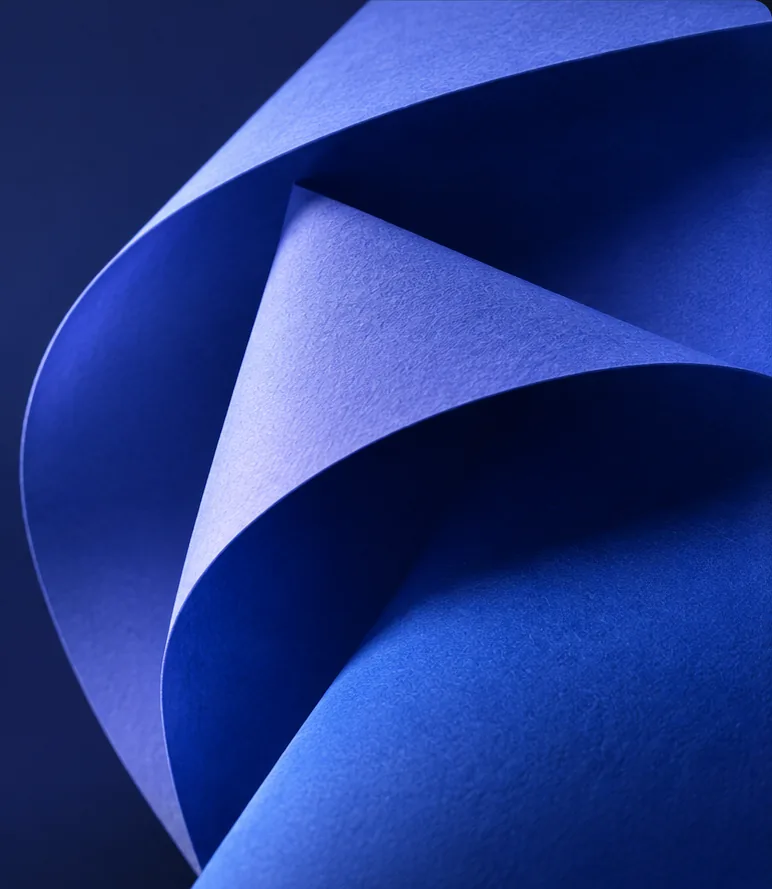
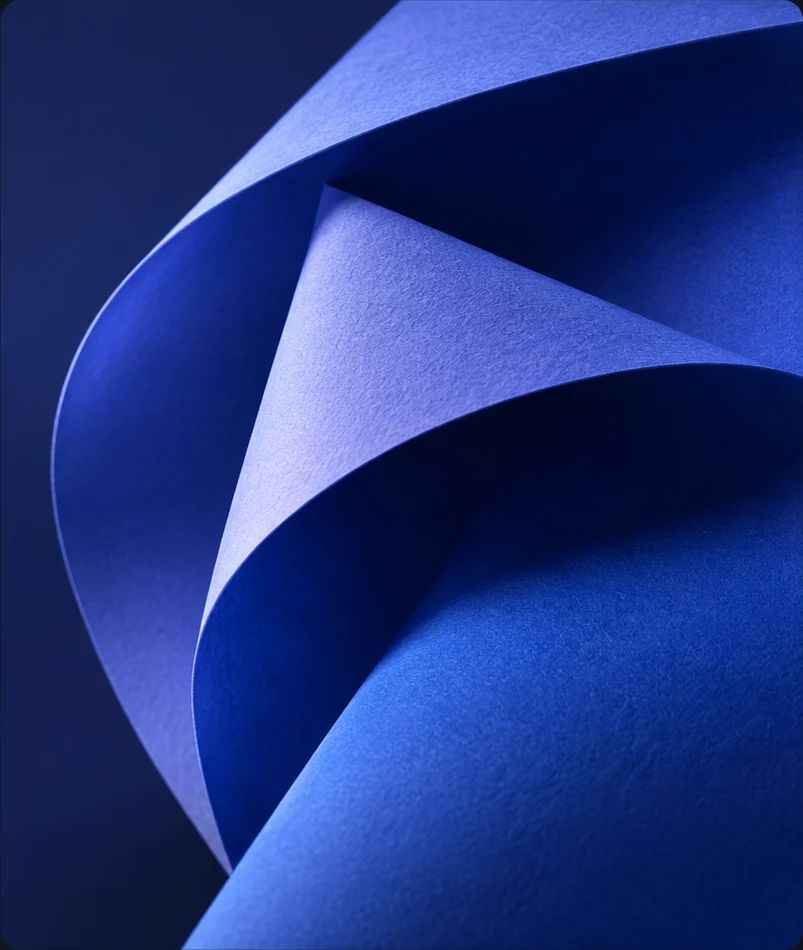
Match the sign-in hero framing and contrast to the mockup
The hero was cropped from x=793 when the design's panel actually starts at
x=762, and then object-fit:cover trimmed more off the sides. The framing
had drifted left: the bright fold sat too far in and the dark indigo
upper-left corner was mostly gone.

- Re-extracts the full panel (803x950) instead of a narrower slice, so the
  original framing is preserved. Its aspect ratio now matches the rendered
  panel's to within 0.0005, so cover crops essentially nothing.
- Removes the baked-in "Studio sample" caption by reconstructing that patch
  rather than cropping above it, which is what cost the bottom of the
  artwork before. The background there is a smooth vertical gradient, so it
  is interpolated between the rows above and below and the paper grain is
  carried over from an adjacent strip. No near-white residue remains, and
  the HTML <figcaption> is unchanged.
- Matches the measured contrast of the subtitle (was at 65% of the
  heading's brightness, the design has it at 96%), the placeholder, the
  input border and the password toggle icon.
- Nudges the form 5px right to sit where the design puts it.

Verified at 1586x992, 100% zoom, email unfocused: bright fold begins at
panel x=221 against the design's 222, top-left corner #172356 against
#172456, and 96.5% of pixels within tolerance. Remaining difference is
almost entirely typeface rendering, since this keeps the project's own
face rather than the design's.
[…]

diff --git a/resources/js/Pages/Auth/Login.vue b/resources/js/Pages/Auth/Login.vue
@@ -39,7 +39,7 @@ const submit = () => {
 
     <div class="min-h-screen bg-[#0e1522] lg:grid lg:h-screen lg:min-h-0 lg:grid-cols-[48fr_52fr] lg:overflow-hidden">
         <!-- Form side -->
-        <div class="relative flex min-h-screen justify-center px-6 py-16 sm:px-10 sm:py-20 [@media(max-height:800px)]:py-10 lg:h-screen lg:min-h-0 lg:overflow-y-auto lg:pl-[3.25rem]">
+        <div class="relative flex min-h-screen justify-center px-6 py-16 sm:px-10 sm:py-20 [@media(max-height:800px)]:py-10 lg:h-screen lg:min-h-0 lg:overflow-y-auto lg:pl-[3.875rem]">
             <Link
                 href="/"
                 class="absolute left-6 top-8 inline-flex items-center gap-2.5 rounded text-[1.35rem] font-semibold tracking-tight text-white sm:left-10 lg:left-[3.2rem] lg:top-[2.4rem]"
@@ -52,7 +52,7 @@ const submit = () => {
                     <h1 class="text-[2.1rem] font-bold leading-[1.12] tracking-tight text-white sm:text-[2.8rem] [@media(max-height:800px)]:sm:text-[2.1rem]">
                         Sign in to Image Studio
                     </h1>
-                    <p class="mt-[0.9rem] text-[1.1rem] leading-relaxed text-[#9aa5b4] sm:text-[1.28rem] [@media(max-height:800px)]:mt-[0.5rem] [@media(max-height:800px)]:sm:text-[1.1rem]">
+                    <p class="mt-[0.9rem] text-[1.1rem] leading-relaxed text-[#ecf3fd] sm:text-[1.28rem] [@media(max-height:800px)]:mt-[0.5rem] [@media(max-height:800px)]:sm:text-[1.1rem]">
                         Generate images and track what each one costs.
                     </p>
 
@@ -76,7 +76,7 @@ const submit = () => {
                                 autofocus
                                 autocomplete="username"
                                 placeholder="you@example.com"
-                                class="mt-[0.7rem] [@media(max-height:800px)]:mt-[0.45rem] block h-[3.4rem] w-full sm:h-[3.75rem] [@media(max-height:800px)]:sm:h-[3.1rem] rounded-xl border border-[#2b3443] bg-[#101723] px-4 text-[1.0625rem] text-white placeholder:text-[#7c8696] sm:text-[1.2rem] focus:border-[#8a9ffd] focus:outline-none focus:ring-1 focus:ring-[#8a9ffd]"
+                                class="mt-[0.7rem] [@media(max-height:800px)]:mt-[0.45rem] block h-[3.4rem] w-full sm:h-[3.75rem] [@media(max-height:800px)]:sm:h-[3.1rem] rounded-xl border border-[#262d39] bg-[#101723] px-4 text-[1.0625rem] text-white placeholder:text-[#a5acb7] sm:text-[1.2rem] focus:border-[#8a9ffd] focus:outline-none focus:ring-1 focus:ring-[#8a9ffd]"
                             />
                             <InputError class="mt-2" :message="form.errors.email" />
                         </div>
@@ -93,13 +93,13 @@ const submit = () => {
                                     required
                                     autocomplete="current-password"
                                     placeholder="Enter your password"
-                                    class="block h-[3.4rem] w-full rounded-xl border border-[#2b3443] bg-[#101723] pl-4 pr-14 sm:h-[3.75rem] [@media(max-height:800px)]:sm:h-[3.1rem] text-[1.0625rem] text-white placeholder:text-[#7c8696] sm:text-[1.2rem] focus:border-[#8a9ffd] focus:outline-none focus:ring-1 focus:ring-[#8a9ffd]"
+                                    class="block h-[3.4rem] w-full rounded-xl border border-[#262d39] bg-[#101723] pl-4 pr-14 sm:h-[3.75rem] [@media(max-height:800px)]:sm:h-[3.1rem] text-[1.0625rem] text-white placeholder:text-[#a5acb7] sm:text-[1.2rem] focus:border-[#8a9ffd] focus:outline-none focus:ring-1 focus:ring-[#8a9ffd]"
                                 />
                                 <button
                                     type="button"
                                     :aria-label="showPassword ? 'Hide password' : 'Show password'"
                                     :aria-pressed="showPassword"
-                                    class="absolute inset-y-0 right-0 flex w-12 items-center justify-center rounded-r-xl text-[#9aa5b4] transition-colors hover:text-white focus-visible:outline-none focus-visible:ring-2 focus-visible:ring-[#8a9ffd]"
+                                    class="absolute inset-y-0 right-0 flex w-12 items-center justify-center rounded-r-xl text-[#eef1f6] transition-colors hover:text-white focus-visible:outline-none focus-visible:ring-2 focus-visible:ring-[#8a9ffd]"
                                     @click="showPassword = !showPassword"
                                 >
                                     <component :is="showPassword ? EyeSlash : Eye" class="size-5" />
@@ -122,7 +122,7 @@ const submit = () => {
                             <Link
                                 v-if="canResetPassword"
                                 :href="route('password.request')"
-                                class="text-[1rem] text-[#aec0f5] underline underline-offset-4 hover:text-white sm:text-[1.1rem]"
+                                class="text-[1rem] text-[#bacffa] underline underline-offset-4 hover:text-white sm:text-[1.1rem]"
                             >
                                 Forgot password?
                             </Link>
@@ -155,8 +155,8 @@ const submit = () => {
                 <img
                     src="/images/login-hero.webp"
                     alt=""
-                    width="772"
-                    height="889"
+                    width="803"
+                    height="950"
                     class="size-full object-cover"
                 />
                 <!-- Caption lives in HTML, not baked into the asset, so it stays
